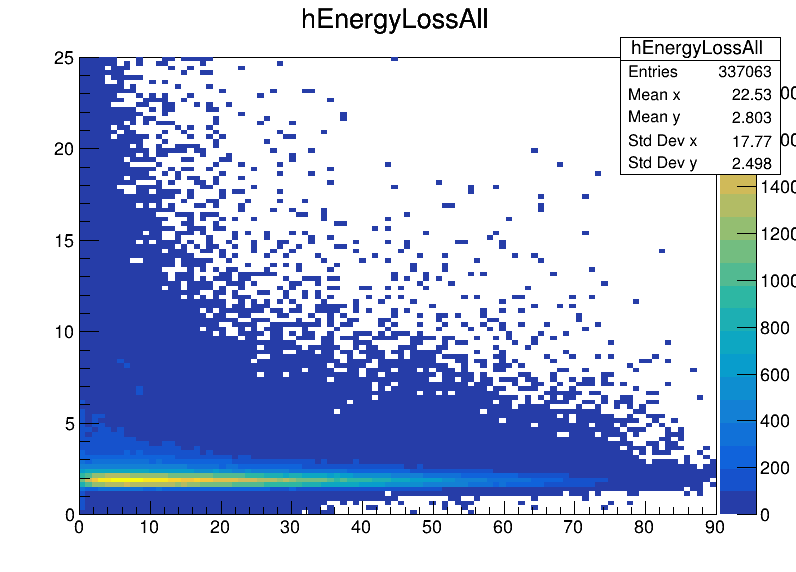
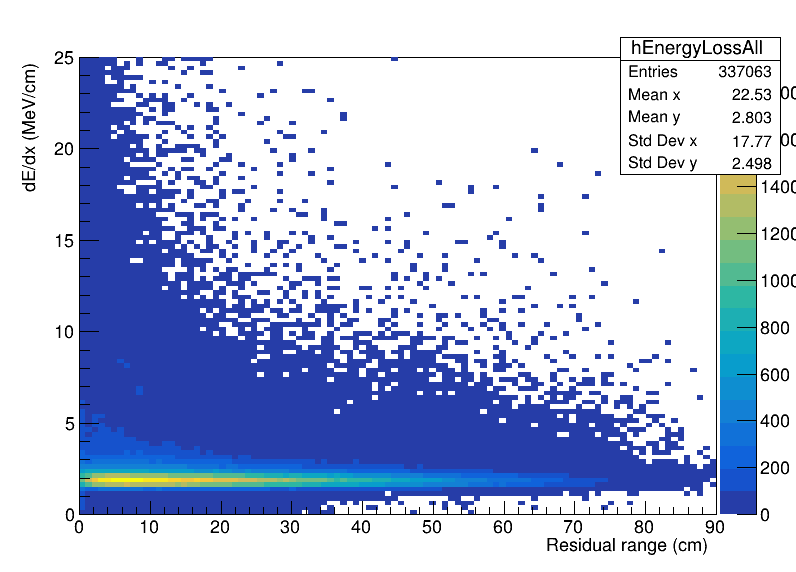
Add axes labels to energy loss plots

Changed region(s): [[0.392, 0.0, 0.6332, 0.0594], [0.6935, 0.9213, 0.8744, 0.9808], [0.0302, 0.1189, 0.0603, 0.3269]]

diff --git a/RecoAnalysis.cc b/RecoAnalysis.cc
@@ -117,21 +117,21 @@ void RecoAnalysis() {
 
     TH2D *hEnergyLossAll = new TH2D(
         "hEnergyLossAll", 
-        "hEnergyLossAll",
+        ";Residual range (cm);dE/dx (MeV/cm)",
         100, 0, 90, // 100 bins starting from 0 to 90 for residual range
         100, 0, 25  // 100 bins starting from 0 to 25 for dE/dx
     );
 
     TH2D *hEnergyLossProtons = new TH2D(
         "hEnergyLossProtons", 
-        "hEnergyLossProtons",
+        ";Residual range (cm);dE/dx (MeV/cm)",
         100, 0, 90, // 100 bins starting from 0 to 90 for residual range
         100, 0, 25  // 100 bins starting from 0 to 25 for dE/dx
     );
 
     TH2D *hEnergyLossPions = new TH2D(
         "hEnergyLossPions", 
-        "hEnergyLossPions",
+        ";Residual range (cm);dE/dx (MeV/cm)",
         100, 0, 90, // 100 bins starting from 0 to 90 for residual range
         100, 0, 25  // 100 bins starting from 0 to 25 for dE/dx
     );
